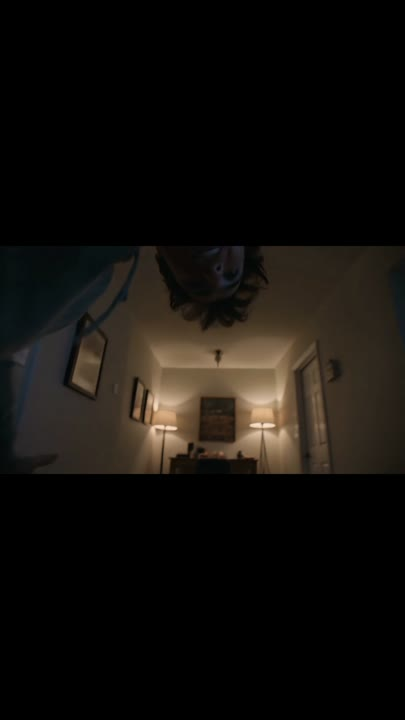
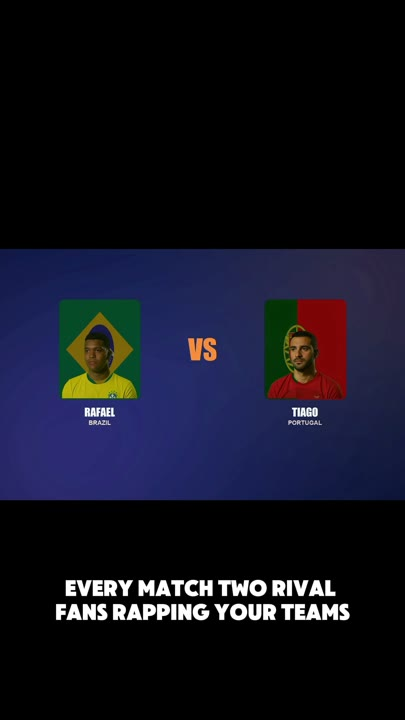
Clips: landscape 16:9 cards so the (mostly horizontal) ads show in full + better trailer poster frame

diff --git a/index.html b/index.html
@@ -666,7 +666,7 @@
 
   /* ── CLIPS STRIP ── */
   .clips{display:flex;gap:16px;overflow-x:auto;overflow-y:hidden;padding:12px 4px 20px}
-  .clip{flex:0 0 150px;height:266px;border-radius:16px;position:relative;overflow:hidden;
+  .clip{flex:0 0 300px;aspect-ratio:16/9;border-radius:16px;position:relative;overflow:hidden;
     background:#0b0617;
     border:1px solid rgba(255,255,255,.09);display:flex;align-items:flex-end;padding:12px}
   .clip .tag{position:absolute;top:10px;left:10px;font-size:.6rem;letter-spacing:.1em;
@@ -696,8 +696,8 @@
   .clip:hover .play{transform:translate(-50%,-50%) scale(1.1);background:rgba(150,70,255,1)}
   /* Clips library page grid */
   .clip-grid{display:flex;flex-wrap:wrap;justify-content:center;gap:18px;max-width:1040px;margin:34px auto 90px}
-  .clip-grid .clip{flex:0 0 172px;height:305px}
-  @media(max-width:560px){.clip-grid{gap:13px}.clip-grid .clip{flex:0 0 150px;height:266px}}
+  .clip-grid .clip{flex:0 0 340px;aspect-ratio:16/9;max-width:88vw}
+  @media(max-width:560px){.clip-grid{gap:13px}.clip-grid .clip{flex:0 0 280px;aspect-ratio:16/9;max-width:88vw}}
   /* Clip lightbox player */
   .cliplb{position:fixed;inset:0;z-index:1200;background:rgba(5,2,12,.93);-webkit-backdrop-filter:blur(8px);backdrop-filter:blur(8px);
     display:flex;align-items:center;justify-content:center;padding:24px;animation:lbfade .2s ease}
@@ -933,7 +933,7 @@
   @media(max-width:460px){
     .nav .social a[title]{display:none}
     .intro-h1{font-size:clamp(1.6rem,9vw,2.3rem)}
-    .clip{flex:0 0 132px;height:234px}
+    .clip{flex:0 0 264px;aspect-ratio:16/9}
     .toast{bottom:72px;font-size:.78rem;padding:11px 16px;white-space:normal}
     .host-full,.poster,.m-banner{padding:20px 16px}
     .hb-headline{font-size:clamp(1.7rem,8vw,2.4rem)}
